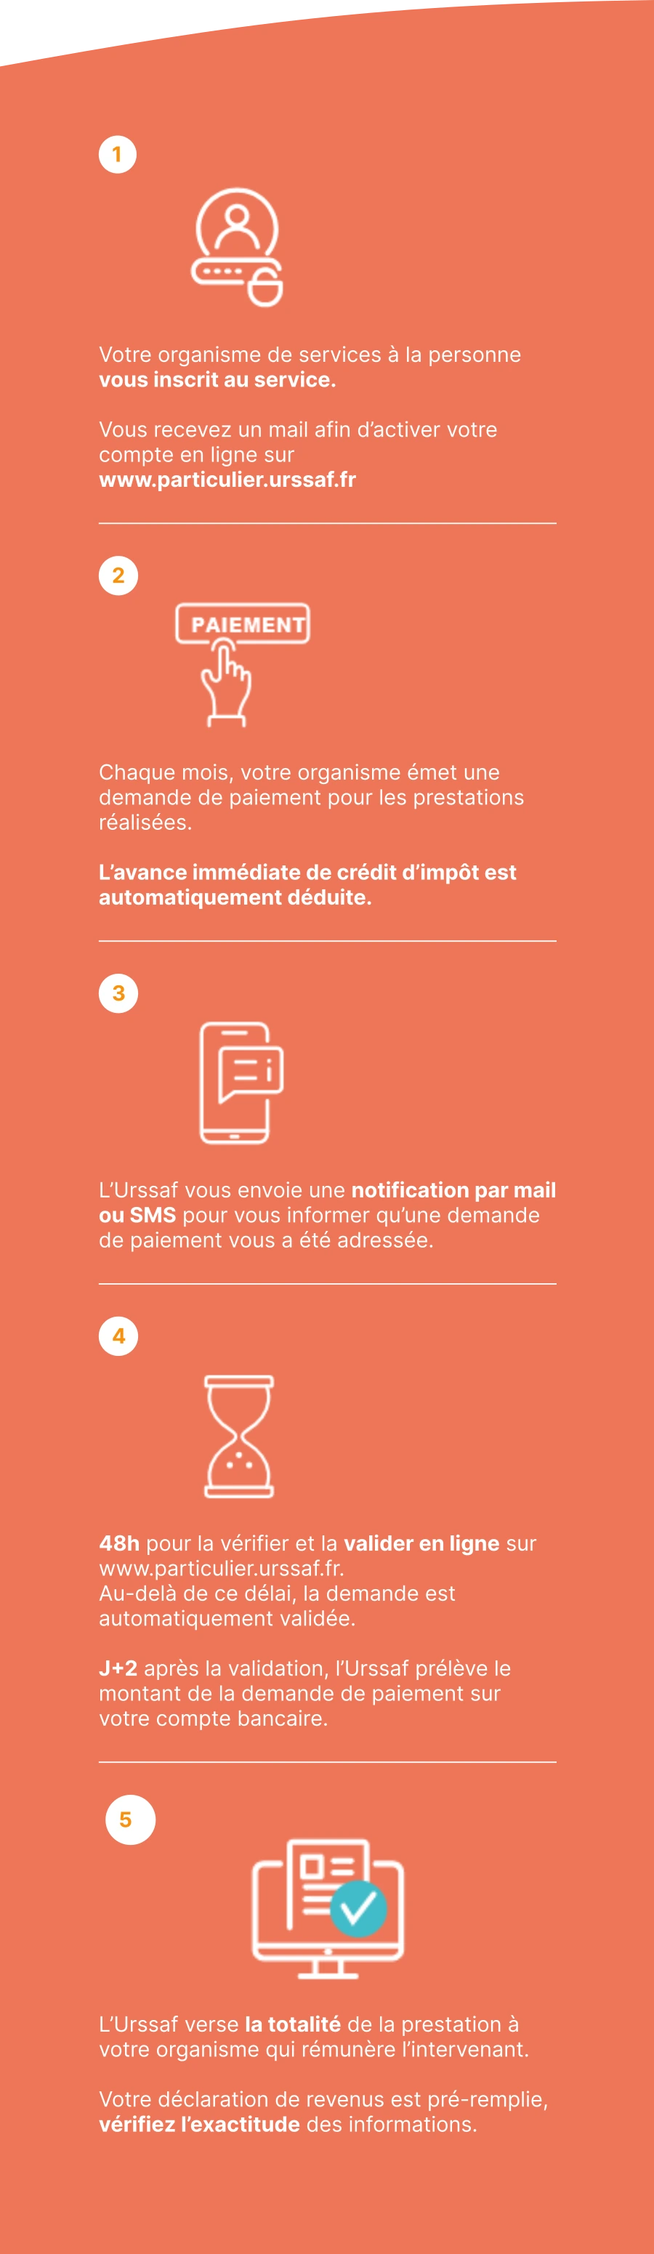
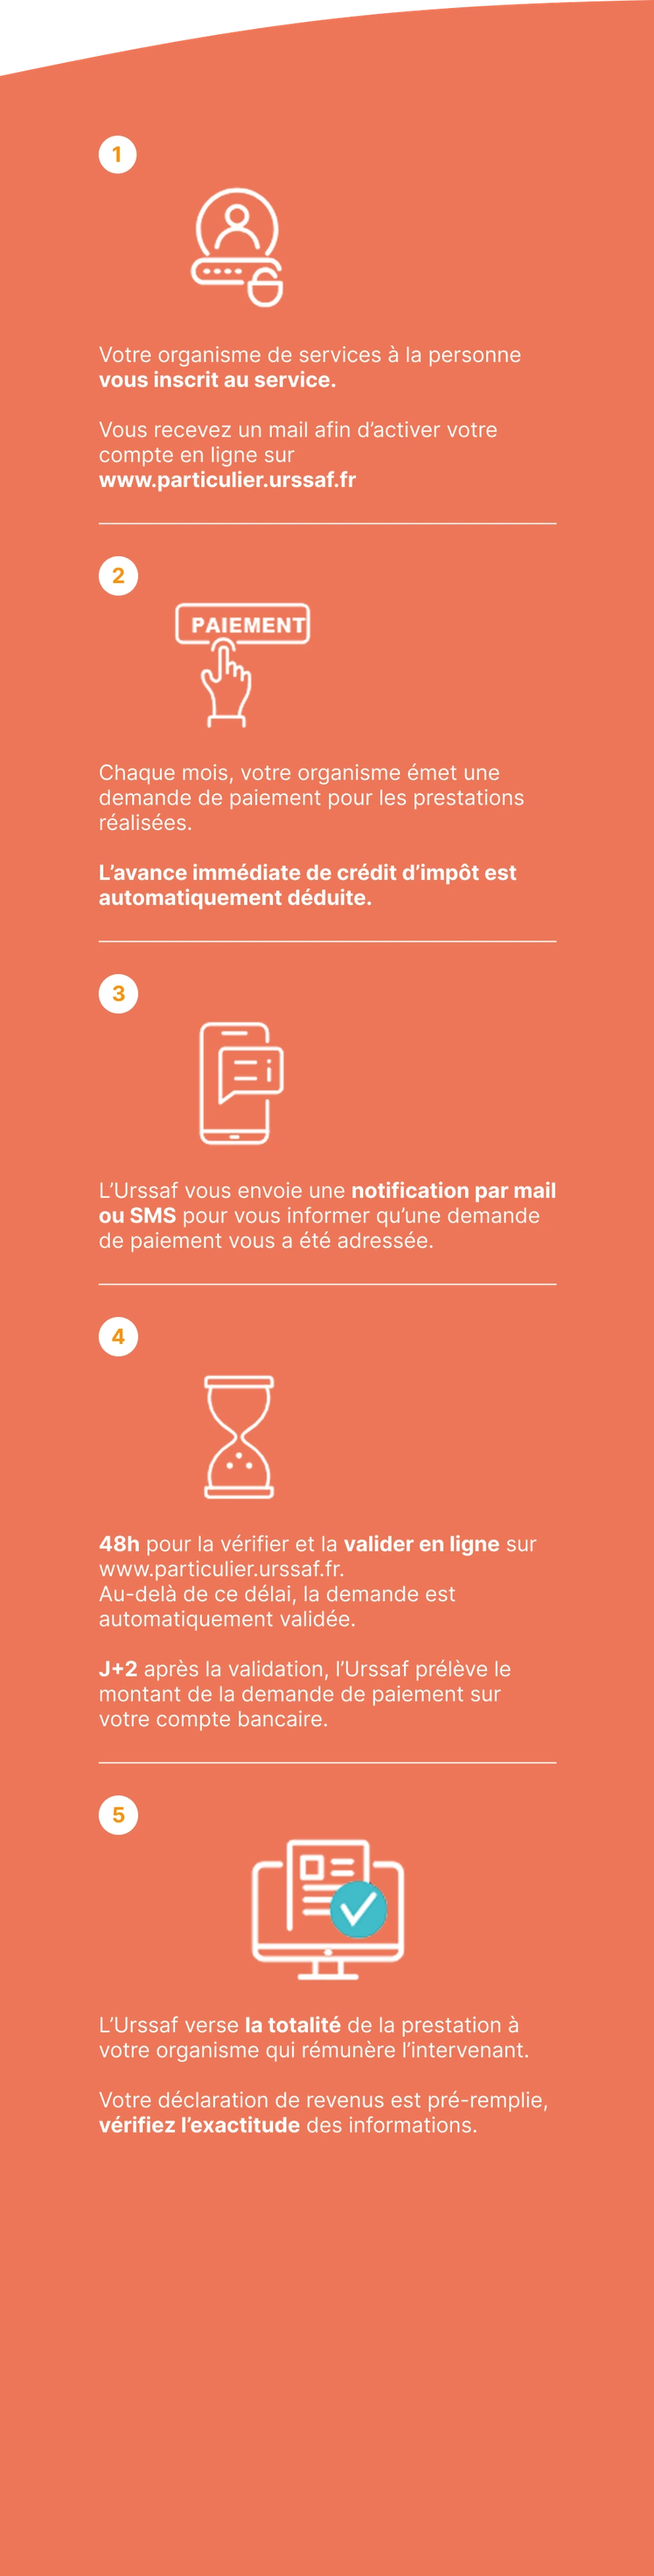
credit d'impot : infographie « comment ca marche » mobile aussi en tablette portrait
- UrssafMobile.webp : nouvel export (994x3914 -> WebP 900x3544, q92),
  large bande orange pleine en pied pour que la section « Et si j'ai
  des questions ? » ne soit pas collee au dernier texte.
- Bascule capture desktop + fleche -> infographie mobile deplacee de
  767px a 834px (seuil tablette portrait du fichier). Le plein cadre
  (scale 1.3 + grandes marges) reste reserve au mobile <=767px ; en
  tablette portrait l'infographie garde sa taille de base (500px).
- .avance-questions : margin-top 15rem (calibre pour le visuel desktop
  mis a l'echelle) -> 2rem en <=834px, et -7rem en <=767px pour coller
  la section au bas de l'infographie (bord haut ondule chevauchant
  legerement l'orange).

diff --git a/src/styles/sections/avance-immediate/avance-immediate-content.css b/src/styles/sections/avance-immediate/avance-immediate-content.css
@@ -334,6 +334,19 @@
     padding: 2.3rem 1.75rem;
     line-height: 1.4;
   }
+
+  /* Tablette portrait : on bascule aussi sur l'image « comment ça
+     marche » mobile (infographie verticale) plutôt que la capture
+     desktop + flèche, qui n'a plus la place ici. Le traitement
+     plein cadre (scale + grandes marges) reste réservé au mobile
+     (<=767px) ; ici l'image garde sa taille de base (max 500px). */
+  .avance-content__comment-visual {
+    display: none;
+  }
+
+  .avance-content__comment-image--mobile {
+    display: block;
+  }
 }
 
 /* Zone intermédiaire : lisse le passage tablette -> mobile
@@ -410,13 +423,11 @@
     transform: rotate(0deg);
   }
 
-  .avance-content__comment-visual {
-    display: none;
-  }
-
+  /* .avance-content__comment-visual masqué et --mobile affiché dès
+     834px (bloc tablette portrait ci-dessus) ; ici on ne fait plus
+     que le passage en plein cadre propre au mobile. */
   .avance-content__comment-image--mobile {
-    display: block;
-    margin: 16rem auto 14rem;
+    margin: 16rem auto 10rem;
     transform: scale(1.3);
   }
 }

diff --git a/src/styles/sections/avance-immediate/avance-immediate-questions.css b/src/styles/sections/avance-immediate/avance-immediate-questions.css
@@ -124,6 +124,16 @@
   }
 }
 
+/* Tablette portrait (<=834px) : on affiche l'infographie « comment ça
+   marche » mobile (non agrandie) à la place de la capture desktop +
+   flèche mise à l'échelle. Le grand margin-top: 15rem calibré pour ce
+   visuel desktop mis à l'échelle n'a donc plus lieu d'être ici. */
+@media (max-width: 834px) {
+  .avance-questions {
+    margin-top: 2rem;
+  }
+}
+
 /* Zone intermédiaire : lisse le passage tablette -> mobile
    sans changer les valeurs exactes à 834px et 767px. */
 @media (min-width: 768px) and (max-width: 834px) {
@@ -138,8 +148,12 @@
 }
 
 @media (max-width: 767px) {
+  /* Remonte la section pour la coller au bas de l'infographie orange
+     (qui garde une large bande orange pleine en pied) : plus de bande
+     crème entre les deux, la section s'enchaîne directement, son bord
+     haut ondulé venant chevaucher légèrement l'orange. */
   .avance-questions {
-    margin-top: 1rem;
+    margin-top: -7rem;
     padding: 3rem 1.5rem;
   }
 
